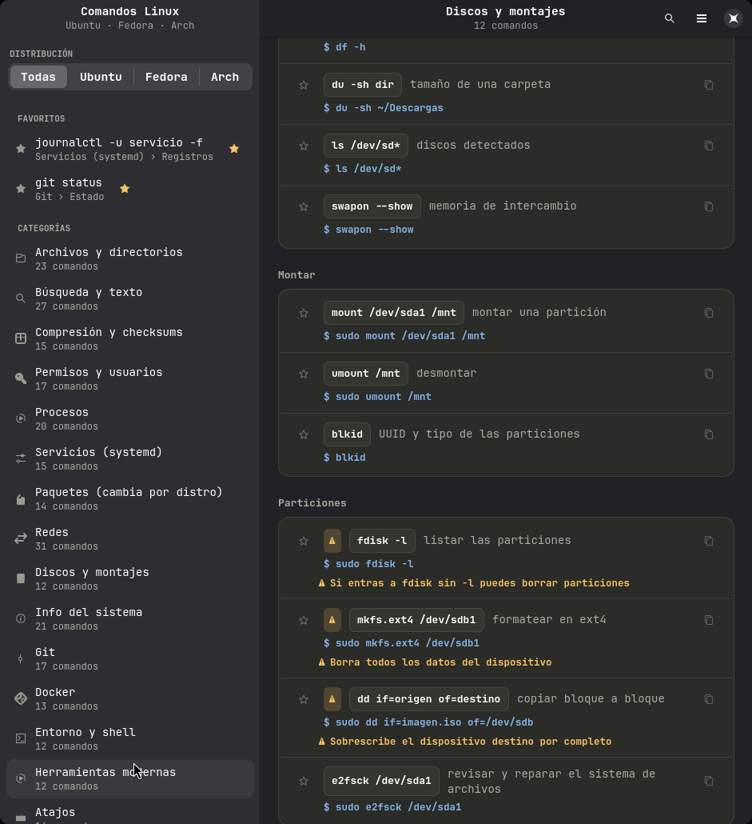
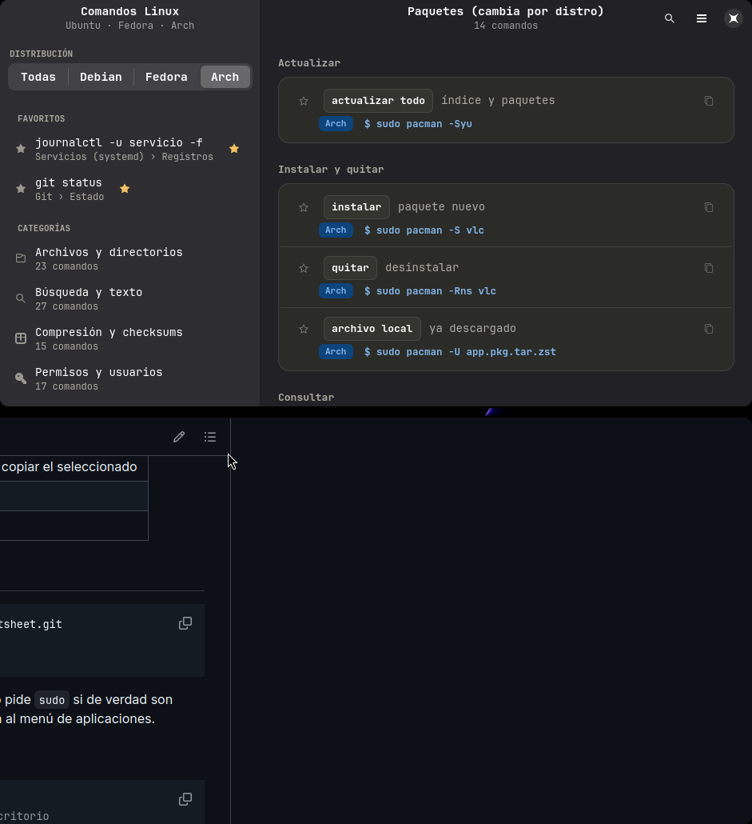
v1.4.0: distribution families and auto-detection
- Las 29 variantes pasan de u/f/a a d/f/a (Debian/Ubuntu, Fedora/RHEL, Arch)
- El selector muestra 'Todas | Debian | Fedora | Arch' con el nombre
  completo en el tooltip
- Autodetección: lee /etc/os-release (ID e ID_LIKE) y selecciona la
  familia del sistema al abrir la primera vez
- Nuevo item de menú 'Detectar mi distro' para volver al modo automático
- Arregla la fuga: 'sudo comando' ya no usa un ejemplo de Ubuntu
- 13 detecciones verificadas (ubuntu, debian, mint, pop, fedora, rocky,
  nobara, arch, omarchy, manjaro, endeavouros, alpine, desconocida)
- El HTML exportado usa las claves d/f/a

diff --git a/src/comandos_linux/app.py b/src/comandos_linux/app.py
@@ -19,7 +19,13 @@ from . import vistas  # noqa: E402
 
 CSS = Path(__file__).with_name("estilo.css")
 
-DISTROS = [("todas", "Todas"), ("u", "Ubuntu"), ("f", "Fedora"), ("a", "Arch")]
+# (clave, etiqueta corta, tooltip con el nombre completo)
+DISTROS = [
+    ("todas", "Todas", "Show every variant"),
+    ("d", "Debian", "Debian/Ubuntu"),
+    ("f", "Fedora", "Fedora/RHEL"),
+    ("a", "Arch", "Arch"),
+]
 
 
 class ComandosApp(Adw.Application):
@@ -37,7 +43,13 @@ class ComandosApp(Adw.Application):
             self.idioma = i18n.BASE
         self.datos = i18n.aplicar(datos, self.idioma)
         self.ventana: "Ventana | None" = None
-        self.distro: str = prefs.valor("distro", "todas") or "todas"
+        self.familia_detectada: str | None = ds.detectar_familia()
+        guardada = prefs.valor("distro")
+        if guardada in ds.FAMILIAS or guardada == "todas":
+            self.distro: str = guardada
+        else:
+            # Primera ejecución: se usa la familia detectada del sistema.
+            self.distro = self.familia_detectada or "todas"
         self.favoritos: list[str] = prefs.favoritos()
         self.texto: str = ""
         self._registrar_acciones()
@@ -52,6 +64,7 @@ class ComandosApp(Adw.Application):
     def _registrar_acciones(self) -> None:
         acciones = {
             "buscar": self._accion_buscar,
+            "detectar": self._accion_detectar,
             "favoritos": self._accion_favoritos,
             "exportar-html": self._accion_exportar_html,
             "exportar-md": self._accion_exportar_md,
@@ -65,6 +78,10 @@ class ComandosApp(Adw.Application):
     def _accion_buscar(self, *_a) -> None:
         if self.ventana:
             self.ventana.focar_busqueda()
+
+    def _accion_detectar(self, *_a) -> None:
+        if self.ventana:
+            self.ventana.detectar_distro()
 
     def _accion_favoritos(self, *_a) -> None:
         if self.ventana:
@@ -172,9 +189,10 @@ class Ventana(Adw.ApplicationWindow):
 
         # Filtro global de distribución
         self.grupo_distro = Adw.ToggleGroup()
-        for clave, etiqueta in DISTROS:
+        for clave, etiqueta, detalle in DISTROS:
             toggle = Adw.Toggle(label=etiqueta)
             toggle.set_name(clave)
+            toggle.set_tooltip(detalle)
             self.grupo_distro.add(toggle)
         self.grupo_distro.set_active_name(self.app.distro)
         self.grupo_distro.connect("notify::active", self._al_cambiar_distro)
@@ -316,6 +334,9 @@ class Ventana(Adw.ApplicationWindow):
         navegacion = Gio.Menu()
         navegacion.append(t.get("menu_buscar", "Buscar…"), "app.buscar")
         navegacion.append(t.get("menu_favoritos", "Favoritos"), "app.favoritos")
+        navegacion.append(
+            t.get("menu_detectar", "Detectar mi distro"), "app.detectar"
+        )
         menu.append_section(None, navegacion)
 
         export = Gio.Menu()
@@ -384,6 +405,25 @@ class Ventana(Adw.ApplicationWindow):
                 self.boton_buscar.set_active(False)
                 return True
         return False
+
+    def detectar_distro(self) -> None:
+        """Vuelve al modo automático: usa la familia detectada del sistema."""
+        self.app.familia_detectada = ds.detectar_familia()
+        familia = self.app.familia_detectada
+        if familia is None:
+            self.app.distro = "todas"
+            self.aviso(self.t.get("aviso_sin_deteccion", "No se pudo detectar tu distro"))
+        else:
+            self.app.distro = familia
+            self.aviso(
+                self.t.get("aviso_detectada", "Usando los comandos de {familia}").format(
+                    familia=ds.FAMILIAS_LARGAS[familia]
+                )
+            )
+        prefs.guardar(distro=self.app.distro)
+        self.grupo_distro.set_active_name(self.app.distro)
+        self._rellenar()
+        self._actualizar_titulo()
 
     def recargar(self) -> None:
         """Recarga la ventana tras un cambio de idioma."""
@@ -739,7 +779,7 @@ class Ventana(Adw.ApplicationWindow):
             transient_for=self,
             application_name="Comandos Linux",
             application_icon="comandos-linux",
-            version="1.3.0",
+            version="1.4.0",
             developer="Angel Herman",
             comments=self.t.get(
                 "about_comentarios",

diff --git a/src/comandos_linux/datos.py b/src/comandos_linux/datos.py
@@ -9,6 +9,54 @@ from typing import Any
 
 APP_ID = "io.github.angelherman0130.LinuxCommandsCheatsheet"
 
+# Familias de distribuciones: la clave del dataset y su nombre corto.
+FAMILIAS: dict[str, str] = {"d": "Debian", "f": "Fedora", "a": "Arch"}
+
+# Nombres completos, para tooltips y textos.
+FAMILIAS_LARGAS: dict[str, str] = {
+    "d": "Debian/Ubuntu",
+    "f": "Fedora/RHEL",
+    "a": "Arch",
+}
+
+# Palabras clave de /etc/os-release para detectar la familia del sistema.
+DETECCION: list[tuple[tuple[str, ...], str]] = [
+    (("arch", "manjaro", "endeavouros", "cachyos", "steamos"), "a"),
+    (("debian", "ubuntu", "mint", "pop", "zorin", "elementary", "kali"), "d"),
+    (("fedora", "rhel", "centos", "nobara", "rocky", "alma"), "f"),
+]
+
+
+def detectar_familia(ruta: str | Path | None = None) -> str | None:
+    """Detecta la familia de distribuciones del sistema (None si es desconocida).
+
+    Lee /etc/os-release y usa tanto ``ID`` como ``ID_LIKE`` para que
+    Omarchy (ID=omarchy, ID_LIKE=arch) se detecte como Arch.
+    """
+    try:
+        texto = Path(ruta or "/etc/os-release").read_text(encoding="utf-8")
+    except OSError:
+        return None
+
+    campos: dict[str, str] = {}
+    for linea in texto.splitlines():
+        if "=" in linea:
+            clave, valor = linea.split("=", 1)
+            campos[clave.strip()] = valor.strip().strip('"').lower()
+
+    candidatos = (
+        campos.get("ID", ""),
+        campos.get("ID_LIKE", ""),
+    )
+    for palabras, familia in DETECCION:
+        for candidato in candidatos:
+            if candidato in palabras:
+                return familia
+            for palabra in candidato.split():
+                if palabra in palabras:
+                    return familia
+    return None
+
 
 def _candidatos() -> list[Path]:
     """Rutas donde puede vivir `comandos.json`, en orden de prioridad."""
@@ -67,7 +115,7 @@ def filtrar(
     """Filtra categorías/grupos/comandos.
 
     - `texto`: busca en comando, descripción, ejemplo, variantes y nombres.
-    - `distro`: "todas" muestra las tres variantes; "u"/"f"/"a" solo la suya.
+    - `distro`: "todas" muestra las tres variantes; "d"/"f"/"a" solo la suya.
     """
     texto = (texto or "").strip().lower()
     salida: list[dict[str, Any]] = []
@@ -104,7 +152,7 @@ def variantes_visibles(cmd: dict[str, Any], distro: str) -> list[tuple[str, str]
         ejemplo = cmd.get("ejemplo")
         return [("", ejemplo)] if ejemplo else []
 
-    claves = ["u", "f", "a"] if distro == "todas" else [distro]
+    claves = ["d", "f", "a"] if distro == "todas" else [distro]
     return [(k, variantes[k]) for k in claves if k in variantes]
 
 

diff --git a/src/comandos_linux/exportar.py b/src/comandos_linux/exportar.py
@@ -44,7 +44,7 @@ code{font:13px ui-monospace,SFMono-Regular,Menlo,Consolas,monospace;background:v
 .v code.x{flex:1;min-width:0;white-space:pre-wrap;word-break:break-word;font-size:12px}
 .p{color:#B3541E;font-size:12px;margin:0 0 4px 6px}
 @media (prefers-color-scheme:dark){.p{color:#F0A868}}
-#t[data-f="u"] .v:not([data-k="u"]),#t[data-f="f"] .v:not([data-k="f"]),#t[data-f="a"] .v:not([data-k="a"]){display:none}
+#t[data-f="d"] .v:not([data-k="d"]),#t[data-f="f"] .v:not([data-k="f"]),#t[data-f="a"] .v:not([data-k="a"]){display:none}
 #q{width:100%;font:inherit;font-size:14px;color:var(--tx);background:var(--card);border:1px solid var(--bd);border-radius:8px;padding:8px 10px;margin-bottom:10px}
 #q:focus{outline:2px solid var(--ac);outline-offset:-1px}
 .hidden{display:none!important}
@@ -52,7 +52,7 @@ code{font:13px ui-monospace,SFMono-Regular,Menlo,Consolas,monospace;background:v
 </style></head><body><main>
 <h1 id="titulo">__TITULO__</h1><p class="sub" id="sub">__SUBTITULO__</p>
 <input id="q" type="search" placeholder="Buscar comando, descripción o ejemplo…" autocomplete="off">
-<div class="seg" id="s"><button class="on" data-f="">__TODAS__</button><button data-f="u">Ubuntu</button><button data-f="f">Fedora</button><button data-f="a">Arch</button></div>
+<div class="seg" id="s"><button class="on" data-f="">__TODAS__</button><button data-f="d">Debian</button><button data-f="f">Fedora</button><button data-f="a">Arch</button></div>
 <div class="seg" id="l"><button class="on" data-l="es">Español</button><button data-l="en">English</button></div>
 <p class="note" id="nota">__NOTA__</p>
 <div class="bar"><button id="ex">Expandir todo</button><button id="co">Contraer todo</button></div>
@@ -78,7 +78,7 @@ function render(){
     g.comandos.forEach(function(m){
       h+='<div class="cmd"><code>'+e(m.cmd)+'</code><span>'+e(m.desc||'')+'</span></div>';
       if(m.variantes){
-        h+=['u','f','a'].map(function(k){return m.variantes[k]?'<div class="v" data-k="'+k+'"><b>'+N[k]+'</b><code class="x">'+e(m.variantes[k])+'</code></div>':''}).join('');
+        h+=['d','f','a'].map(function(k){return m.variantes[k]?'<div class="v" data-k="'+k+'"><b>'+N[k]+'</b><code class="x">'+e(m.variantes[k])+'</code></div>':''}).join('');
       } else if(m.ejemplo){
         h+='<div class="ex">'+pre(m.ejemplo)+'</div>';
       }

diff --git a/src/comandos_linux/__init__.py b/src/comandos_linux/__init__.py
@@ -3,5 +3,5 @@
 Aplicación de escritorio offline. Los datos viven en `datos/comandos.json`.
 """
 
-__version__ = "1.3.0"
+__version__ = "1.4.0"
 __all__ = ["__version__"]

diff --git a/README.md b/README.md
@@ -47,6 +47,26 @@ muestran la variante de **Ubuntu**, **Fedora** o **Arch** y tú eliges cuál ver
 
 ![Avisos de comandos destructivos](docs/captura-peligro.png)
 
+## 🧭 Familias de distribuciones, no distribuciones
+
+De los 263 comandos, **234 son idénticos** en cualquier Linux y solo **29 cambian**
+según el gestor de paquetes. Por eso la app no pregunta "¿Ubuntu, Fedora o Arch?",
+sino **¿de qué familia es tu sistema?**:
+
+| Familia | Gestor | Sirve también a |
+|---|---|---|
+| **Debian/Ubuntu** | `apt`, `dpkg`, `ufw` | Debian, Mint, Pop!_OS, Zorin, elementary, Kali |
+| **Fedora/RHEL** | `dnf`, `firewall-cmd` | RHEL, Rocky, Alma, CentOS Stream, Nobara |
+| **Arch** | `pacman`, `nft` | Manjaro, EndeavourOS, SteamOS, CachyOS |
+
+**Y la detecta sola**: al abrir la app se lee `/etc/os-release` (`ID` e
+`ID_LIKE`) y se selecciona tu familia automáticamente. Si prefieres verla
+siempre, el menú ☰ tiene **«Detectar mi distro»** para volver al modo
+automático.
+
+El selector sigue mostrando 4 botones cortos (`Todas │ Debian │ Fedora │
+Arch`) para que quepan en la barra lateral; el nombre completo va en el tooltip.
+
 ## 🌍 Dos idiomas
 
 La app está **en español e inglés**: no solo los botones, también las
@@ -67,6 +87,7 @@ El HTML exportado lleva su propio selector de idioma y acepta el parámetro
 | | |
 |---|---|
 | 🧭 Barra lateral | Categorías con icono y nº de comandos, favoritos arriba y filtro de distro |
+| 🖧 Autodetección | Detecta tu familia de distro al abrir y selecciona sus comandos |
 | 🔍 Buscar | Escribe arriba; la vista cambia a resultados planos con su categoría |
 | ⭐ Favoritos | Estrella en cada comando; se guardan entre sesiones |
 | 📋 Copiar | Clic en el comando o en el ejemplo; el portapapeles se actualiza solo |
@@ -167,11 +188,11 @@ src/comandos_linux/datos/comandos.json
       "comandos": [
         { "cmd": "dig", "desc": "consultas DNS", "ejemplo": "dig example.com" },
 
-        // Si cambia según la distro, usa "variantes":
+        // Si cambia según la familia, usa "variantes":
         { "cmd": "wget", "desc": "descargas", "variantes": {
-          "u": "sudo apt install wget",
-          "f": "sudo dnf install wget",
-          "a": "sudo pacman -S wget"
+          "d": "sudo apt install wget",      // Debian / Ubuntu
+          "f": "sudo dnf install wget",      // Fedora / RHEL
+          "a": "sudo pacman -S wget"         // Arch
         }},
 
         // Si es destructivo, añade "peligro" y la app lo marcará con un aviso:
@@ -187,8 +208,8 @@ src/comandos_linux/datos/comandos.json
 - `cmd` → el comando (monoespaciado).
 - `desc` → descripción corta.
 - `ejemplo` → ejemplo de uso. Si empieza por `#` se muestra como comentario.
-- `variantes` → en lugar de `ejemplo` cuando el comando difiere por distro
-  (`u` = Ubuntu, `f` = Fedora, `a` = Arch).
+- `variantes` → en lugar de `ejemplo` cuando el comando difiere por familia
+  (`d` = Debian/Ubuntu, `f` = Fedora/RHEL, `a` = Arch).
 - `peligro` → texto de aviso para los comandos destructivos (opcional).
 - `icono` → cualquier icono del tema del sistema (`folder-symbolic`,
   `network-server-symbolic`, `edit-find-symbolic`…).
@@ -269,6 +290,11 @@ the commands you use most at hand. Live search shows flat results with the
 category of each match, one click copies any command or example, destructive
 commands are flagged with a warning, and the whole cheat sheet can be exported
 to a standalone HTML file or to Markdown.
+
+Because only 29 of the 263 commands actually change between distributions, the
+app works with **distribution families** (Debian/Ubuntu, Fedora/RHEL, Arch)
+instead of exact distros, and it **detects yours automatically** by reading
+`/etc/os-release` — so the right commands are already selected when you open it.
 
 The interface and every description ship in **Spanish and English**, switchable
 from the sidebar — and the choice is remembered between sessions. Search works
